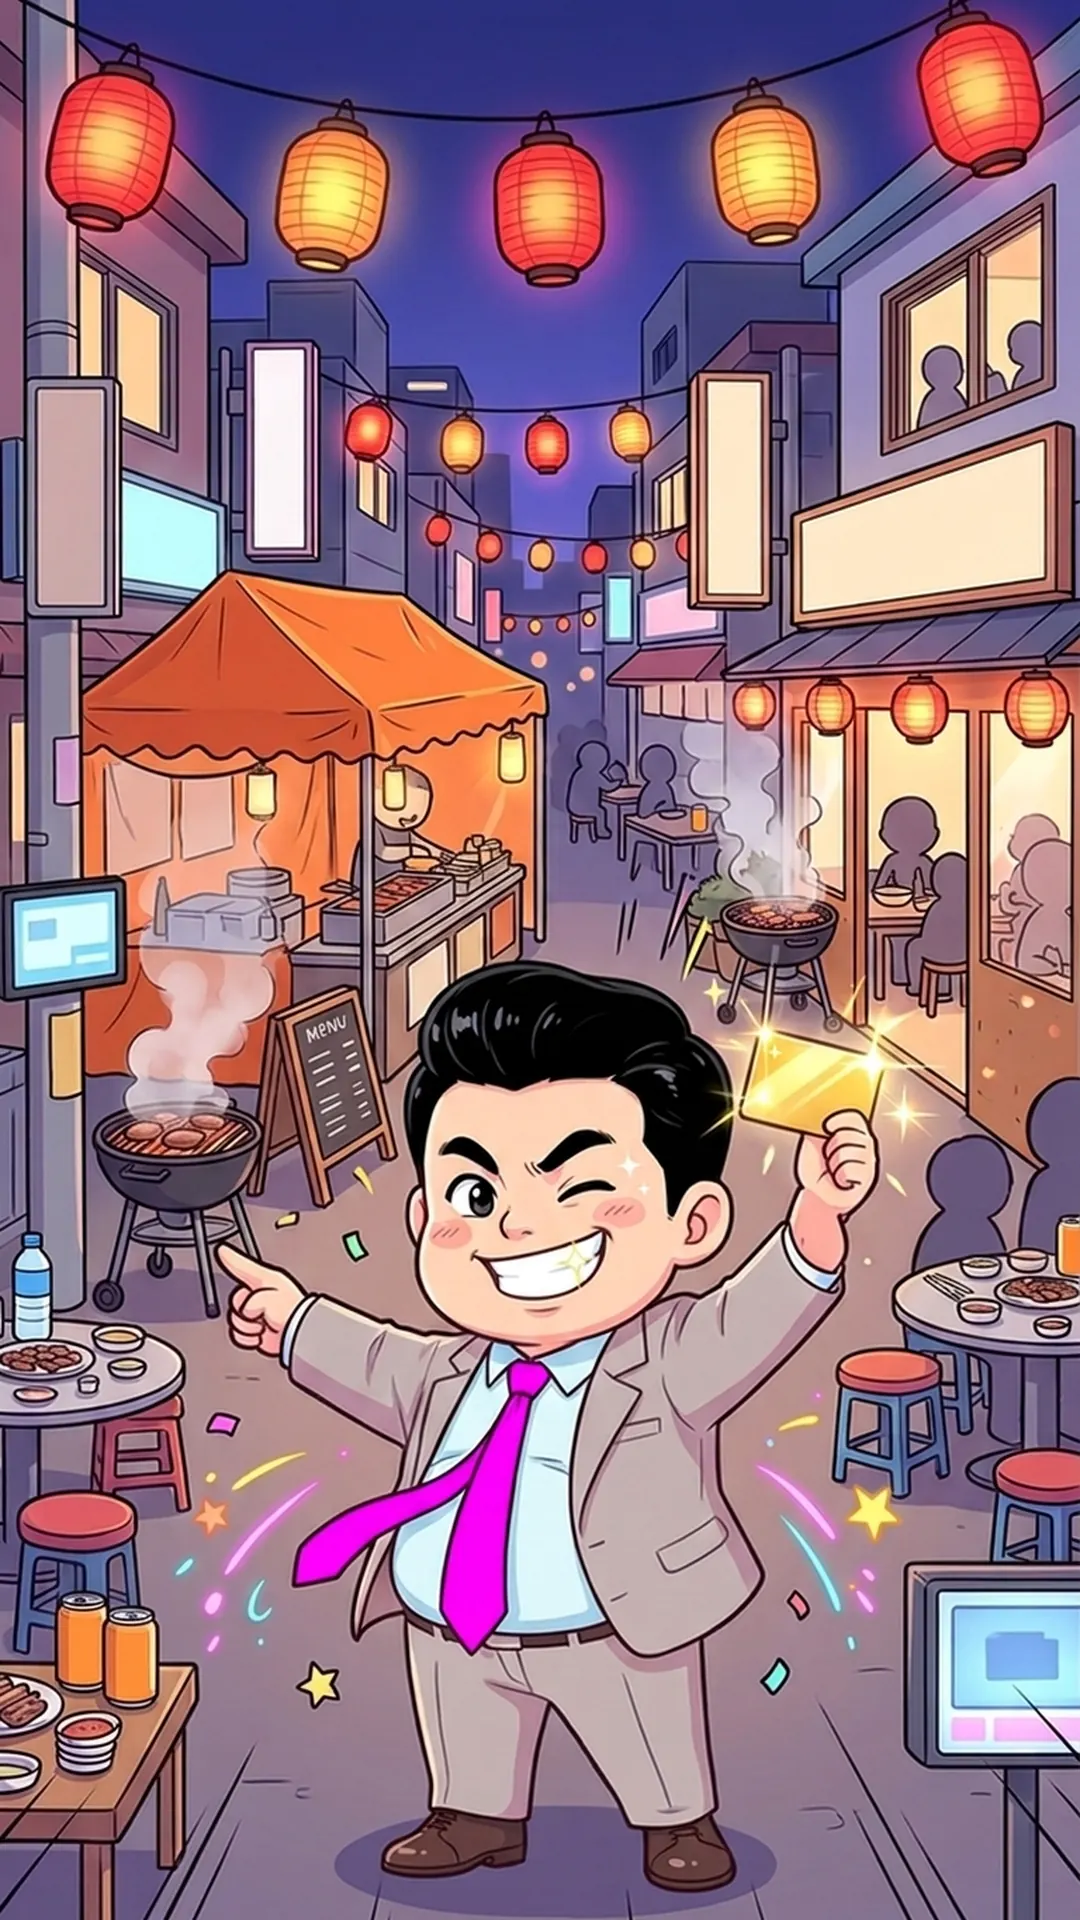
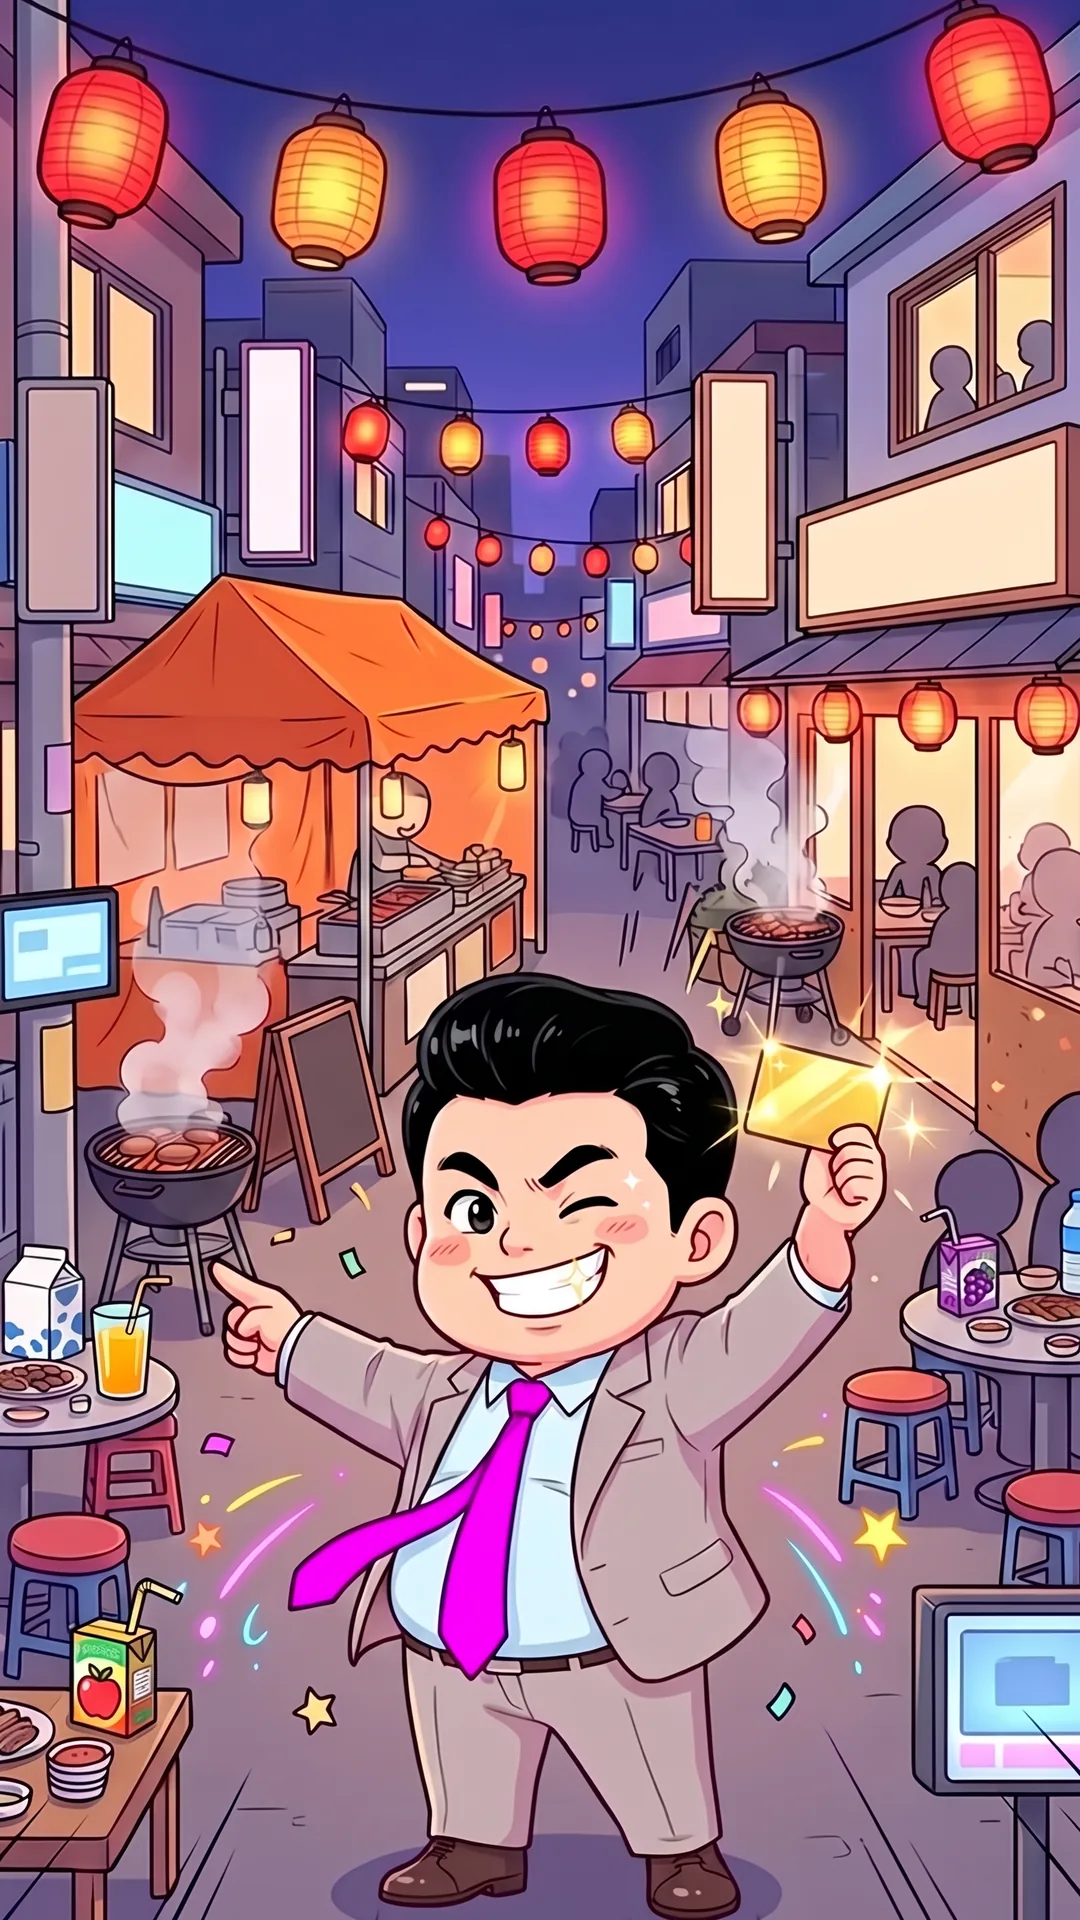
feat(store): drinks-only stage-9 cutscene + record release decisions
- cut/boss-9-a: unlabeled cans redrawn as milk / juice / water, blank menu board
- English name Clock-Out Dash: Office Runner, pass ₩3,300, developer site
  breton5797.github.io (app-ads.txt already live), age answers violence/alcohol = none

diff --git a/docs/store/questionnaires.md b/docs/store/questionnaires.md
@@ -23,7 +23,7 @@
 
 ## 1. Apple 연령 등급 설문 (2025-07 개편판, 4+/9+/13+/16+/18+) [S1][S2][S3]
 
-2026-01-31 이후 새 문항에 답하지 않으면 업데이트 제출이 막혀요. 기대 결과: **4+** (아래 "확인 필요" 두 칸을 모두 "없음"으로 답할 때).
+2026-01-31 이후 새 문항에 답하지 않으면 업데이트 제출이 막혀요. 기대 결과: **4+** (폭력·알코올 모두 "없음"으로 확정).
 
 | 구역 | 문항 | 답 | 이유 |
 |---|---|---|---|
@@ -35,13 +35,13 @@
 | | **광고(Advertising)** | **예** | AdMob 보상형 광고 포함. (가이드 기준 4+ 유지 항목) |
 | | 소셜 미디어 관련 문항(2026 추가로 보도됨) | 아니요 | 피드·친구·공유 없음 |
 | 건강·웰빙 | 의료·치료 정보, 건강·체중 관리 등 | 모두 없음 | |
-| 폭력 | 만화·판타지 폭력 | **확인 필요 — 추천: 없음** | 던진 서류를 피하는 슬랩스틱이고 아무도 다치지 않음. 보수적으로 "드물게/가벼움"을 고르면 **9+**가 될 수 있어요 |
+| 폭력 | 만화·판타지 폭력 | **없음** (결정 2026-11-18) | 던진 서류를 피하는 슬랩스틱이고 아무도 다치지 않음. 보수적으로 "드물게/가벼움"을 고르면 **9+**가 될 수 있어요 |
 | | 사실적 폭력, 잔혹·지속 폭력, 무기 | 없음 | |
 | 성·노출·성적 주제 | 모두 | 없음 | |
 | 비속어·저속한 유머 | | 없음 | 사내 말투 패러디뿐. (한국 스토어는 2026-10부터 "드문 비속어/저속한 유머"가 12+로 바뀐다고 공지됨 → "없음"이 맞는지 대사 한 번 더 확인) |
 | 성숙·암시적 주제 | | 없음 | |
 | 공포·두려움 | | 없음 | |
-| 알코올·담배·약물 사용 또는 언급 | | **확인 필요 — 추천: 없음** | 대사·글자에 술 언급 없음. 다만 9단계 컷신의 상표 없는 캔·병을 "술"로 볼 수 있으면 "드물게/가벼움"(→ 13+ 가능). 가족 등급을 지키려면 그림에서 캔·병을 음료로 확실히 바꾸는 것이 안전 |
+| 알코올·담배·약물 사용 또는 언급 | | **없음** | 대사·글자에 술 언급 없음. 9단계 컷신 탁자의 캔은 2026-11-18에 우유팩·주스·물병으로 다시 그림 |
 | 도박 | 모의 도박, 현금 도박, 콘테스트 | 없음 | 무작위 보상 없음 |
 | 루트박스 등 | (문항이 있으면) | 없음 | 복지몰은 정해진 가격 교환, 패스는 확정형 |
 
@@ -54,11 +54,11 @@
 
 | 문항 | 답 | 이유 |
 |---|---|---|
-| 폭력 (사람·동물·만화 캐릭터에 대한 폭력) | **추천: 아니요** (확인 필요) | 상사가 서류를 던지고 주인공은 피하기만 함. 다치는 묘사·피 없음. 보수적으로 "만화 캐릭터에 대한 가벼운 폭력, 현실감 없음"을 고르면 PEGI 7 정도 |
+| 폭력 (사람·동물·만화 캐릭터에 대한 폭력) | **아니요** (결정 2026-11-18) | 상사가 서류를 던지고 주인공은 피하기만 함. 다치는 묘사·피 없음. 보수적으로 "만화 캐릭터에 대한 가벼운 폭력, 현실감 없음"을 고르면 PEGI 7 정도 |
 | 공포 | 아니요 | |
 | 성적 내용·노출 | 아니요 | |
 | 비속어 | 아니요 | |
-| 규제 약물(술·담배·마약) | **추천: 아니요** (확인 필요) | 1장 알코올 칸과 같은 판단. 캔·병을 술로 볼 수 있으면 "언급"으로 답함 |
+| 규제 약물(술·담배·마약) | **아니요** | 9단계 컷신의 음료는 우유·주스·물로 다시 그림(2026-11-18) |
 | 도박·모의 도박 | 아니요 | |
 | 무작위 아이템(루트박스) 구매 | 아니요 | |
 | 사용자 간 상호작용·콘텐츠 공유 | 아니요 | 채팅·공유 없음 |
@@ -139,7 +139,7 @@
 |---|---|
 | App Store Connect | 앱 내 구입 › **비소모성** 생성, 제품 ID `kaltoe.pass`, 참조 이름 "Kaltoe Pass", 표시 이름 ko "칼퇴 패스"/en "Clock-Out Pass", 심사용 스크린샷(구매 카드 화면) + 심사 메모. 첫 인앱 구매는 **앱 버전과 함께 제출**해야 함. 스토어 페이지에 "앱 내 구입" 자동 표시 |
 | Google Play Console | 수익 창출 › 인앱 상품 › 일회성 제품 `kaltoe.pass` 생성·활성화. 판매자 프로필(결제 프로필) 필요. 스토어에 "인앱 구매" 자동 표시 |
-| 가격 | 설계 제안 ₩3,300. App Store는 가격 포인트(등급) 중에서만 고를 수 있어요 — 2026-05-28 한국 세금·가격 자동 조정이 있었으므로 콘솔에서 ₩3,300 포인트가 있는지 확인, 없으면 ₩3,000 또는 ₩3,900 중 대표님 결정 [S14]. Play는 원 단위로 직접 입력 가능 |
+| 가격 | **₩3,300 확정**(2026-11-18). App Store는 가격 포인트(등급) 중에서만 고를 수 있어요 — 2026-05-28 한국 세금·가격 자동 조정이 있었으므로 콘솔에서 ₩3,300 포인트가 있는지 확인, 없으면 ₩3,000 또는 ₩3,900 중 대표님 결정 [S14]. Play는 원 단위로 직접 입력 가능 |
 | 무작위 여부 | 없음 (확정형). 확률 공개 의무 해당 없음 |
 | 한국 전자상거래 고지 | 디지털 콘텐츠 청약철회 제한 등 고지 문구가 필요한지 법무 확인 권장 (스토어 결제는 각 스토어 환불 정책 적용) |
 

diff --git a/docs/store/release-checklist.md b/docs/store/release-checklist.md
@@ -9,10 +9,10 @@
 
 ## 0. 먼저 정할 것 (대표님 결정)
 
-- [ ] **영어 이름**: 추천 "Clock-Out Dash: Office Runner" (listing.md 6장). 또는 한국어만 등록. 상표 검색(KIPRIS·USPTO) 후 `studio/reports/naming/`에 기록.
-- [ ] **칼퇴 패스 가격**: 설계 제안 ₩3,300 → App Store 가격 포인트 확인 후 확정 (questionnaires.md 7장).
-- [ ] **개발자 웹사이트 도메인** (app-ads.txt 위치): `breton5797.github.io` 루트(별도 저장소 `breton5797.github.io` 필요) 또는 회사 도메인.
-- [ ] **연령 설문의 확인 필요 2칸**(폭력·알코올, questionnaires.md 1·2장): 9단계 컷신 캔·병을 음료로 바꿀지 결정.
+- [x] **영어 이름**: "Clock-Out Dash: Office Runner" 확정(2026-11-18, jev 판단). 남은 일: 출시 전 상표 검색(KIPRIS·USPTO) 결과를 `studio/reports/naming/`에 기록.
+- [x] **칼퇴 패스 가격**: ₩3,300 확정(2026-11-18). App Store 가격 포인트에 없으면 가장 가까운 포인트로 (questionnaires.md 7장).
+- [x] **개발자 웹사이트 도메인**: `breton5797.github.io`. 저장소와 `https://breton5797.github.io/app-ads.txt`(`google.com, pub-7181131934411179, DIRECT, f08c47fec0942fa0`)가 **이미 게시돼 있음**(2026-11-18 확인, 같은 AdMob 계정이라 칼퇴근 대작전에도 적용). 스토어 웹사이트·마케팅 URL은 `https://breton5797.github.io/tap-rope/office/`(같은 도메인).
+- [x] **연령 설문 2칸**: 9단계 컷신의 캔을 우유·주스·물로 다시 그림(2026-11-18) → 알코올 "없음". 폭력은 "없음"(슬랩스틱, 아무도 다치지 않음)으로 답함.
 - [ ] **이용약관 갱신 담당 지정**: `public-office/terms.html`이 아직 "유료 결제나 광고가 없어요"라고 씀 → 앱 출시 전 수정 필요(이 작업 범위 밖).
 
 ## 1. Google AdMob (광고) [S18][S19][S7]
@@ -43,7 +43,7 @@ npx cap sync ios   # Xcode Archive: ADMOB_APP_ID=ca-app-pub-7181131934411179~425
    - Android: `npx cap sync android && cd android && ./gradlew bundleRelease -PADMOB_APP_ID=<Android 앱 ID>` — 테스트 앱 ID면 **빌드 실패**(내부 테스트용만 `-PALLOW_TEST_ADS=true`).
    - iOS: `npx cap sync ios` 후 Xcode Archive 시 `ADMOB_APP_ID=<iOS 앱 ID>`를 넘김(`xcodebuild ... archive ADMOB_APP_ID=...` 또는 Release 빌드 설정 값). Release에 테스트 앱 ID가 남아 있으면 빌드 단계 "Check AdMob app id"가 **빌드를 실패**시킴. 사내 기기 설치용 Release 빌드만 `ALLOW_TEST_ADS=YES`.
 6. [ ] **개인정보 및 메시지 › UMP 동의 메시지**: GDPR(유럽) 메시지 생성·게시 (필요 지역에서만 표시). 미국 주 법 메시지는 필요 여부 확인. iOS ATT 안내 메시지(IDFA 설명)는 **만들지 않음**(ATT 안 씀).
-7. [ ] **app-ads.txt**: AdMob이 주는 한 줄(`google.com, pub-…, DIRECT, f08c47fec0942fa0`)을 개발자 웹사이트 **도메인 루트** `/app-ads.txt`에 게시 → 두 스토어 등록정보의 웹사이트(Play "웹사이트", iOS "마케팅 URL")에 같은 도메인 입력 → AdMob app-ads.txt 탭에서 확인(Play 최대 24시간, iOS는 며칠 걸릴 수 있음). `breton5797.github.io/tap-rope/` 같은 하위 경로에는 둘 수 없어요.
+7. [x] **app-ads.txt** (이미 게시됨 — 위 0장): AdMob이 주는 한 줄(`google.com, pub-…, DIRECT, f08c47fec0942fa0`)을 개발자 웹사이트 **도메인 루트** `/app-ads.txt`에 게시 → 두 스토어 등록정보의 웹사이트(Play "웹사이트", iOS "마케팅 URL")에 같은 도메인 입력 → AdMob app-ads.txt 탭에서 확인(Play 최대 24시간, iOS는 며칠 걸릴 수 있음). `breton5797.github.io/tap-rope/` 같은 하위 경로에는 둘 수 없어요.
 8. [ ] 출시 후: AdMob에서 각 앱을 스토어 앱과 연결(app-ads.txt 확인·광고 게재에 필요).
 9. [ ] 테스트 기기 등록(AdMob › 설정 › 테스트 기기)으로 운영 ID에서도 실수 클릭 방지.
 

diff --git a/public-office/art/SOURCES.md b/public-office/art/SOURCES.md
@@ -686,3 +686,4 @@ they came from. `live/` keeps only the weekly badges (`badge-*`, 128×128), `sho
 | `cosmetic/stamp-pass.webp` | gpt_image_2_5 | 0.25 | Office rubber stamp imprint design for a game result screen, flat matte ink impression on a transparent background, slightly rough ink texture, bold and simple, readable at small size, no text, no letters, no numbers, no Korean characters, no digits. The stamp: a round double-ring office seal in teal-mint ink with a simple pictogram in the middle of an open office door with a small arrow pointing out of it and a tiny four-point star above. |
 
 Post: paper keyed to alpha by ink coverage (0.30–0.75 ramp, ink #158C78), cropped, 4% pad, 256×256 WebP q90.
+- `cut/boss-9-a` (2026-11-18, store age rating): the two unlabeled orange cans could read as beer → edited (nano_banana_flash, 2 edits, ~3 cr) to a milk carton (no lettering), a glass of orange juice, apple / grape juice boxes with straws and a water bottle; the A-frame menu board is now blank. Prompts: "Edit this exact image. Keep everything identical … Only change the small items on the tables … clearly non-alcoholic kid-friendly drinks … No cans, no green bottles, no beer, no soju … make the A-frame menu board fully blank with no letters. No text anywhere." then "… Only remove the word MILK from the white milk carton …". Centre-cropped to 9:16, 1080×1920 WebP q82.

diff --git a/docs/store/listing.md b/docs/store/listing.md
@@ -212,12 +212,12 @@ PLEASE NOTE
 |---|---|
 | 개인정보처리방침 URL | `https://breton5797.github.io/tap-rope/office/privacy.html` (이번에 앱 섹션 추가) |
 | 지원 URL (iOS 필수) | 같은 사이트의 문의 안내 페이지 또는 privacy.html 1장(연락처) — 대표님 결정 |
-| 마케팅 URL (iOS) / 웹사이트 (Play) | **app-ads.txt를 올릴 도메인**과 같아야 함 (release-checklist.md 1.6). 예: `https://breton5797.github.io` |
+| 마케팅 URL (iOS) / 웹사이트 (Play) | `https://breton5797.github.io/tap-rope/office/` (app-ads.txt가 있는 `breton5797.github.io` 도메인) |
 | 저작권 (iOS) | `2026 <개발자 법인명>` — 대표님 입력 |
 | 인앱 구매 표시 이름 | ko "칼퇴 패스" / en "Clock-Out Pass" |
 | 인앱 구매 설명 (≤45자 권장) | ko "광고 없이 같은 보상 받기 + 전용 도장 1종" / en "Ad rewards without ads + 1 exclusive stamp" |
 
-## 6. 영어 이름 제안 (대표님 결정 필요 — 상표 판단 아님)
+## 6. 영어 이름 — "Clock-Out Dash: Office Runner" 확정 (2026-11-18, 상표 검색은 출시 전 별도)
 
 2026-11-18 웹 검색 결과 (근거 링크는 `policy-sources.md` 6장):
 
